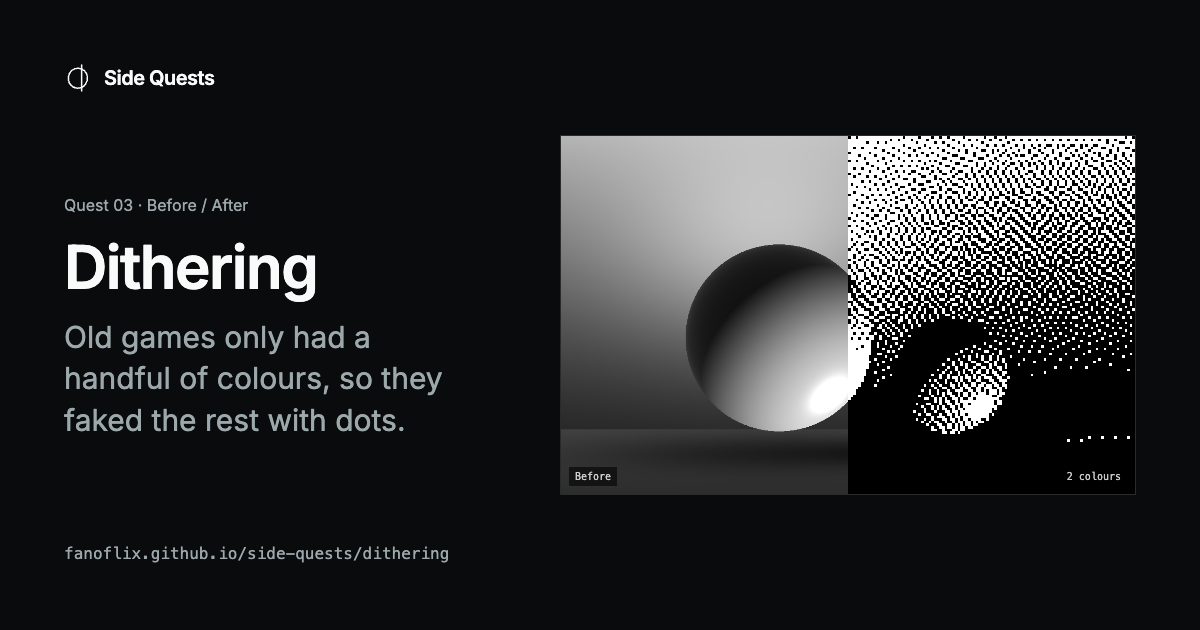
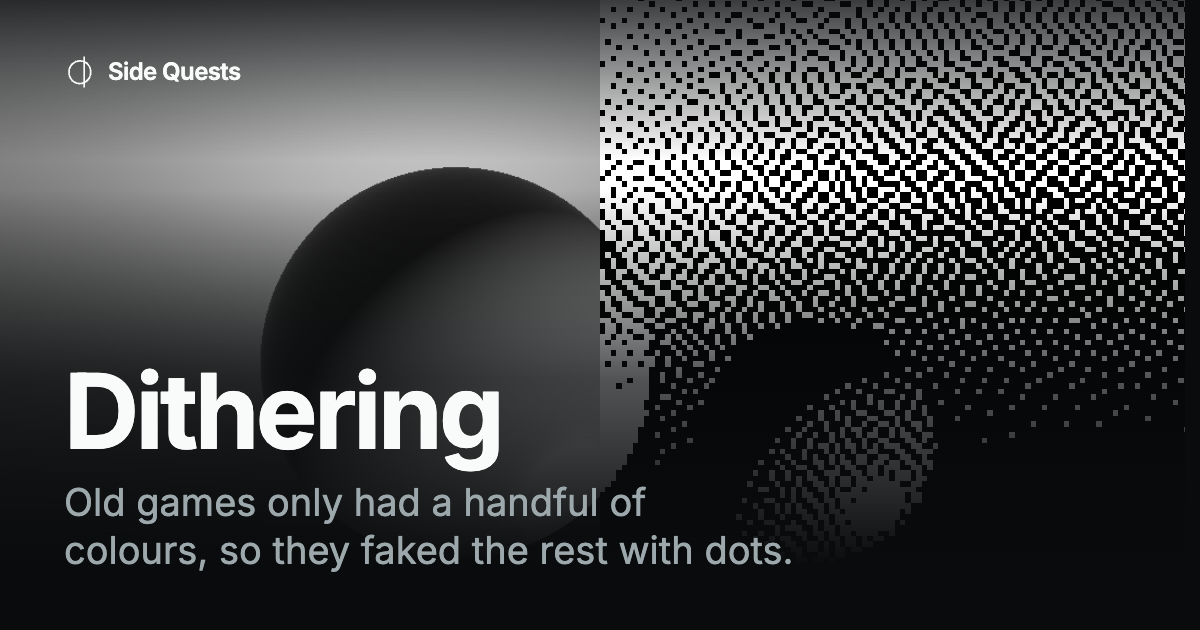
Full-bleed link-preview cards
Every quest's link preview now shows its visual across the whole card,
with a big title and hook bottom-left, so it reads at LinkedIn's
thumbnail size. Character Flow is caught mid-roll and Depth Dust shows
the turned helm with comets. All ten images are regenerated.

diff --git a/src/features/seo/OgCard.tsx b/src/features/seo/OgCard.tsx
@@ -1,74 +1,124 @@
 import { PREVIEWS } from "@/features/home/Previews"
+import { CharacterFlow } from "@/features/motion/character-flow/CharacterFlow"
 import { SiteMark } from "@/features/nav/SiteMark"
 import { SITE_NAME } from "@/features/nav/site"
-import { questNumber, tools } from "@/features/nav/tools"
+import { tools } from "@/features/nav/tools"
 import type { Tool } from "@/features/nav/tools"
-import { cn } from "@/lib/utils"
+import { useDepthDustHero, useFrozenRoll } from "./useOgHero"
 
-const HOME_PREVIEWS = [
-  "character-flow",
-  "dithering",
-  "low-res-video",
-  "style-flow",
+const BACKDROPS = new Set(["dithering", "anti-aliasing", "low-res-video"])
+
+const ZOOMED: Partial<Record<string, number>> = {
+  "style-flow": 3,
+  "future-table": 2.2,
+  "concept-chat": 2.2,
+  "tanstack-showcase": 2,
+}
+
+const ROLL = { from: "delayed", to: "departures", progress: 0.65 }
+
+const HOME_TILES = [
+  { slug: "character-flow", zoom: 1.6 },
+  { slug: "depth-dust", zoom: 1 },
+  { slug: "dithering", zoom: 1 },
 ]
 
 function Frame({ children }: { children: React.ReactNode }) {
   return (
     <div
       data-og-card
-      className="fixed inset-0 z-[100] flex h-[630px] w-[1200px] bg-background text-foreground"
+      className="fixed inset-0 z-[100] h-[630px] w-[1200px] overflow-hidden bg-background text-foreground"
     >
       {children}
     </div>
   )
 }
 
-function Brand() {
+function Layout({
+  hero,
+  children,
+}: {
+  hero?: React.ReactNode
+  children: React.ReactNode
+}) {
   return (
-    <div className="flex items-center gap-3 text-xl font-semibold tracking-tight">
-      <SiteMark className="size-7" />
-      {SITE_NAME}
+    <div className="absolute inset-0 flex flex-col px-16 py-14">
+      <div className="flex items-center gap-3 text-2xl font-semibold tracking-tight">
+        <SiteMark className="size-8" />
+        {SITE_NAME}
+      </div>
+      <div className="relative my-6 flex-1">{hero}</div>
+      {children}
     </div>
   )
 }
 
-function Panel({ slug, className }: { slug: string; className?: string }) {
+function Shade() {
+  return (
+    <>
+      <div className="absolute inset-0 bg-gradient-to-t from-background from-10% via-background/70 via-40% to-transparent to-70%" />
+      <div className="absolute inset-x-0 top-0 h-40 bg-gradient-to-b from-background/80 to-transparent" />
+    </>
+  )
+}
+
+function Zoomed({ slug, zoom }: { slug: string; zoom: number }) {
   const Preview = PREVIEWS[slug]
   return (
-    <div
-      className={cn(
-        "overflow-hidden border border-border bg-muted/30",
-        className
-      )}
-    >
+    <div className="absolute inset-0" style={{ zoom }}>
       {Preview && <Preview />}
     </div>
   )
 }
 
+function FlowHero() {
+  const { ref, value } = useFrozenRoll(ROLL.from, ROLL.to, ROLL.progress)
+  return (
+    <div ref={ref} className="absolute inset-0 grid place-items-center">
+      <CharacterFlow
+        value={value}
+        className="text-[180px] font-semibold tracking-tight"
+      />
+    </div>
+  )
+}
+
+function DustBackdrop() {
+  const { canvasRef } = useDepthDustHero()
+  return (
+    <canvas
+      ref={canvasRef}
+      className="absolute -top-8 left-[260px] h-[630px] w-[1000px]"
+    />
+  )
+}
+
+function Backdrop({ slug }: { slug: string }) {
+  if (slug === "depth-dust") return <DustBackdrop />
+  if (BACKDROPS.has(slug)) return <Zoomed slug={slug} zoom={1} />
+  return null
+}
+
+function BandHero({ slug }: { slug: string }) {
+  if (slug === "character-flow") return <FlowHero />
+  const zoom = ZOOMED[slug]
+  if (!zoom) return null
+  return <Zoomed slug={slug} zoom={zoom} />
+}
+
 function ToolCard({ tool }: { tool: Tool }) {
   return (
     <Frame>
-      <div className="flex w-[560px] shrink-0 flex-col justify-between p-16">
-        <Brand />
-        <div className="space-y-5">
-          <p className="text-base text-muted-foreground">
-            Quest {questNumber(tool)} · {tool.category}
-          </p>
-          <h1 className="text-6xl font-semibold tracking-tight">
-            {tool.title}
-          </h1>
-          <p className="text-3xl leading-snug text-balance text-muted-foreground">
-            {tool.hook}
-          </p>
-        </div>
-        <p className="font-mono text-base text-muted-foreground">
-          fanoflix.github.io/side-quests{tool.to}
+      <Backdrop slug={tool.slug} />
+      <Shade />
+      <Layout hero={<BandHero slug={tool.slug} />}>
+        <h1 className="text-[104px] leading-[0.98] font-bold tracking-[-0.035em]">
+          {tool.title}
+        </h1>
+        <p className="mt-4 max-w-[1000px] text-[38px] leading-tight text-balance text-muted-foreground">
+          {tool.hook}
         </p>
-      </div>
-      <div className="flex flex-1 items-center py-16 pr-16">
-        <Panel slug={tool.slug} className="aspect-[16/10] w-full" />
-      </div>
+      </Layout>
     </Frame>
   )
 }
@@ -76,20 +126,27 @@ function ToolCard({ tool }: { tool: Tool }) {
 function HomeCard() {
   return (
     <Frame>
-      <div className="flex w-[600px] shrink-0 flex-col justify-between p-16">
-        <Brand />
-        <h1 className="text-7xl font-semibold tracking-tight">
+      <Layout
+        hero={
+          <div className="absolute inset-0 grid grid-cols-3 gap-px bg-border">
+            {HOME_TILES.map(({ slug, zoom }) => (
+              <div
+                key={slug}
+                className="relative overflow-hidden bg-background"
+              >
+                <Zoomed slug={slug} zoom={zoom} />
+              </div>
+            ))}
+          </div>
+        }
+      >
+        <h1 className="text-[76px] leading-none font-bold tracking-[-0.035em] whitespace-nowrap">
           Small web things that <span className="text-highlight">roll.</span>
         </h1>
-        <p className="text-2xl text-muted-foreground">
+        <p className="mt-4 text-[34px] text-muted-foreground">
           {tools.length} quests, each with a plain-English write-up.
         </p>
-      </div>
-      <div className="grid flex-1 grid-cols-2 gap-3 py-16 pr-16">
-        {HOME_PREVIEWS.map((slug) => (
-          <Panel key={slug} slug={slug} />
-        ))}
-      </div>
+      </Layout>
     </Frame>
   )
 }

diff --git a/src/features/seo/useOgHero.ts b/src/features/seo/useOgHero.ts
@@ -1,0 +1,80 @@
+import { useEffect, useRef, useState } from "react"
+
+import { createField } from "@/features/canvas-stuff/depth-dust/field"
+import { DEFAULT_SETTINGS } from "@/features/canvas-stuff/depth-dust/defaults"
+import { loadDefaultPicture } from "@/features/canvas-stuff/depth-dust/useDepthDust"
+
+export function useFrozenRoll(from: string, to: string, progress: number) {
+  const ref = useRef<HTMLDivElement>(null)
+  const [value, setValue] = useState(from)
+
+  useEffect(() => {
+    let frame = 0
+    let cancelled = false
+    if (value === from) {
+      document.fonts.ready.then(() => {
+        if (!cancelled) frame = requestAnimationFrame(() => setValue(to))
+      })
+    } else {
+      frame = requestAnimationFrame(() => {
+        const rolling = ref.current?.getAnimations({ subtree: true }) ?? []
+        for (const animation of rolling) {
+          const end = Number(animation.effect?.getComputedTiming().endTime ?? 0)
+          animation.pause()
+          animation.currentTime = end * progress
+          animation.commitStyles()
+          animation.cancel()
+        }
+      })
+    }
+    return () => {
+      cancelled = true
+      cancelAnimationFrame(frame)
+    }
+  }, [value, from, to, progress])
+
+  return { ref, value }
+}
+
+const HERO_SETTINGS = { ...DEFAULT_SETTINGS, splash: 0.25 }
+const HERO_ANGLE = { yaw: 0.42, pitch: 0.06 }
+const HERO_DRIFT_TIME = 30
+
+export function useDepthDustHero() {
+  const canvasRef = useRef<HTMLCanvasElement>(null)
+
+  useEffect(() => {
+    const canvas = canvasRef.current
+    if (!canvas) return
+    const field = createField(canvas)
+    if (!field) return
+    let frame = 0
+    let cancelled = false
+    loadDefaultPicture()
+      .then((picture) => {
+        if (cancelled) return
+        field.setPicture(picture)
+        const draw = () => {
+          field.draw({
+            time: 0,
+            driftTime: HERO_DRIFT_TIME,
+            intro: 1,
+            settings: HERO_SETTINGS,
+            light: false,
+            pan: HERO_ANGLE,
+            guide: 0,
+          })
+          frame = requestAnimationFrame(draw)
+        }
+        draw()
+      })
+      .catch(() => {})
+    return () => {
+      cancelled = true
+      cancelAnimationFrame(frame)
+      field.dispose()
+    }
+  }, [])
+
+  return { canvasRef }
+}
